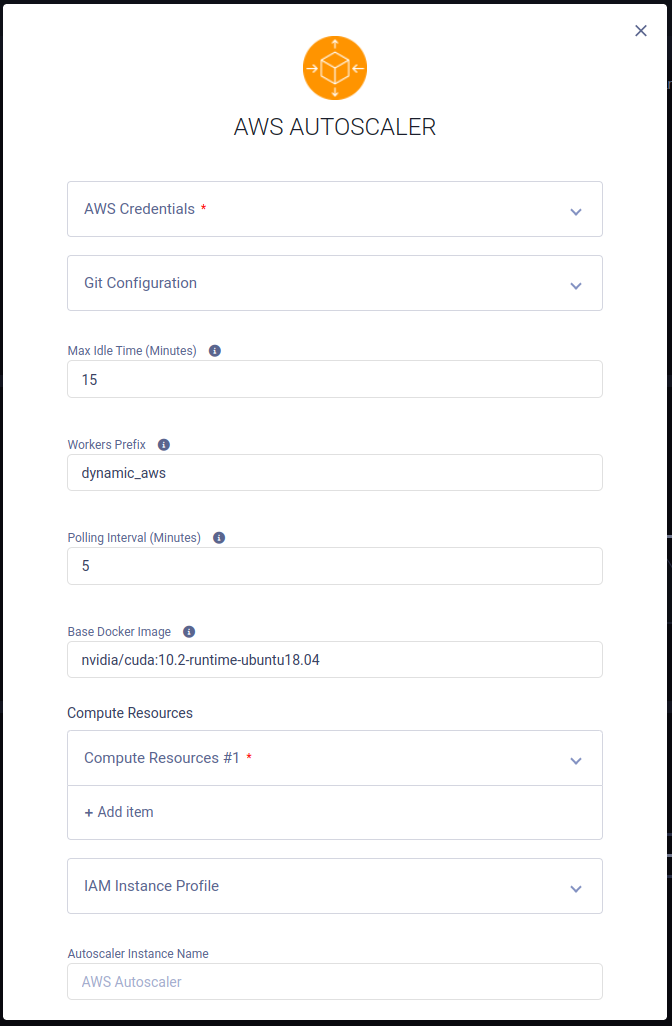
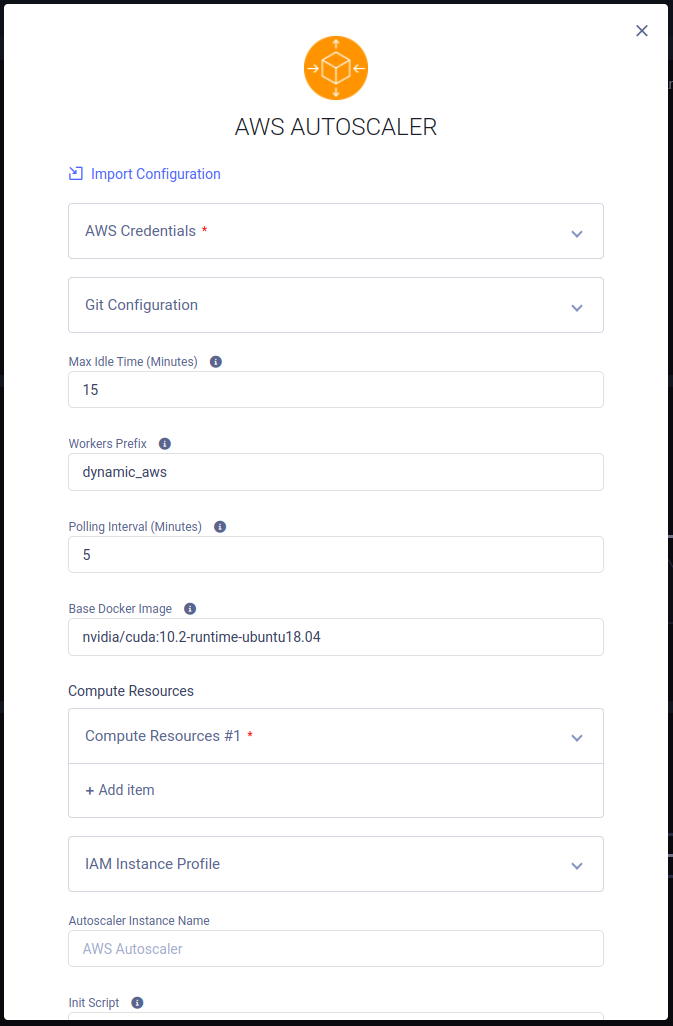
Add app import/export wizard option

diff --git a/docs/webapp/applications/apps_aws_autoscaler.md b/docs/webapp/applications/apps_aws_autoscaler.md
@@ -18,6 +18,8 @@ queue (until reaching the defined maximum number of instances). You can add an i
 each instance is spun up. 
 
 ## Autoscaler Instance Configuration
+* **Import Configuration** - Import an app instance configuration file. This will fill the configuration wizard with the 
+  values from the file, which can be modified before launching the app instance
 * **AWS Credentials** - Credentials with which the autoscaler can access your AWS account. See [Generating AWS IAM Credentials](#generating-aws-iam-credentials)
     * Use IAM role - Select if you are running your autoscalers on your own EC2 instances which are attached to an [IAM 
       role](https://docs.aws.amazon.com/IAM/latest/UserGuide/id_roles.html). In such a case, no AWS IAM credentials are required.
@@ -64,6 +66,8 @@ each instance is spun up.
 * **Init script** (Optional) - A bash script to execute after launching the EC2 instance 
 * **Additional ClearML Configuration** (Optional) - A ClearML configuration file to use by the ClearML Agent when 
   executing your experiments
+* **Export Configuration** - Export the app instance configuration as a JSON file, which you can later import to create 
+  a new instance with the same configuration. 
 
 ![Autoscaler wizard](../../img/app_aws_autoscaler_wizard.png)
 

diff --git a/docs/webapp/applications/apps_gcp_autoscaler.md b/docs/webapp/applications/apps_gcp_autoscaler.md
@@ -19,6 +19,8 @@ in a queue (until reaching the defined maximum number of instances). You can add
 when each VM instance is spun up. 
 
 ## Autoscaler Instance Configuration
+* **Import Configuration** - Import an app instance configuration file. This will fill the configuration wizard with the 
+  values from the file, which can be modified before launching the app instance
 * **GCP Configuration**
     * GCP Project ID - Project used for spinning up VM instances
     * GCP Zone - The GCP zone where the VM instances will be spun up. See [Regions and zones](https://cloud.google.com/compute/docs/regions-zones)
@@ -47,7 +49,9 @@ when each VM instance is spun up.
 * **Polling Interval** (Optional) - Time period in minutes at which the designated queue is polled for new tasks
 * **Init Script** (Optional) - A bash script to execute after launching the VM instance
 * **Additional ClearML Configuration** (Optional) - A ClearML configuration file to use by the ClearML Agent when executing your experiments
-
+* **Export Configuration** - Export the app instance configuration as a JSON file, which you can later import to create 
+  a new instance with the same configuration. 
+  
 ![GCP autoscaler wizard](../../img/apps_gcp_autoscaler_wizard.png)
 
 :::note Enterprise Feature

diff --git a/docs/webapp/applications/apps_hpo.md b/docs/webapp/applications/apps_hpo.md
@@ -19,6 +19,8 @@ Control the optimization process with the advanced configuration options, which 
 limits.
 
 ## HPO Instance Configuration
+* **Import Configuration** - Import an app instance configuration file. This will fill the configuration wizard with the 
+  values from the file, which can be modified before launching the app instance
 * **Initial Task to Optimize** - ID of an existing ClearML task to optimize. This task will be cloned, and each clone will 
   sample a different set of hyperparameters values.
 * **Optimization Configuration**
@@ -54,7 +56,9 @@ limits.
       stopped. Iterations are based on the experiments' own reporting (for example, if experiments report every epoch, 
       then iterations=epochs)
     * Limit Total Optimization Instance Time (Minutes) - Time limit for the whole optimization process (in minutes)
-
+* **Export Configuration** - Export the app instance configuration as a JSON file, which you can later import to create 
+  a new instance with the same configuration. 
+  
 ![HPO app wizard](../../img/apps_hpo_wizard.png)
  
 ## Dashboard
